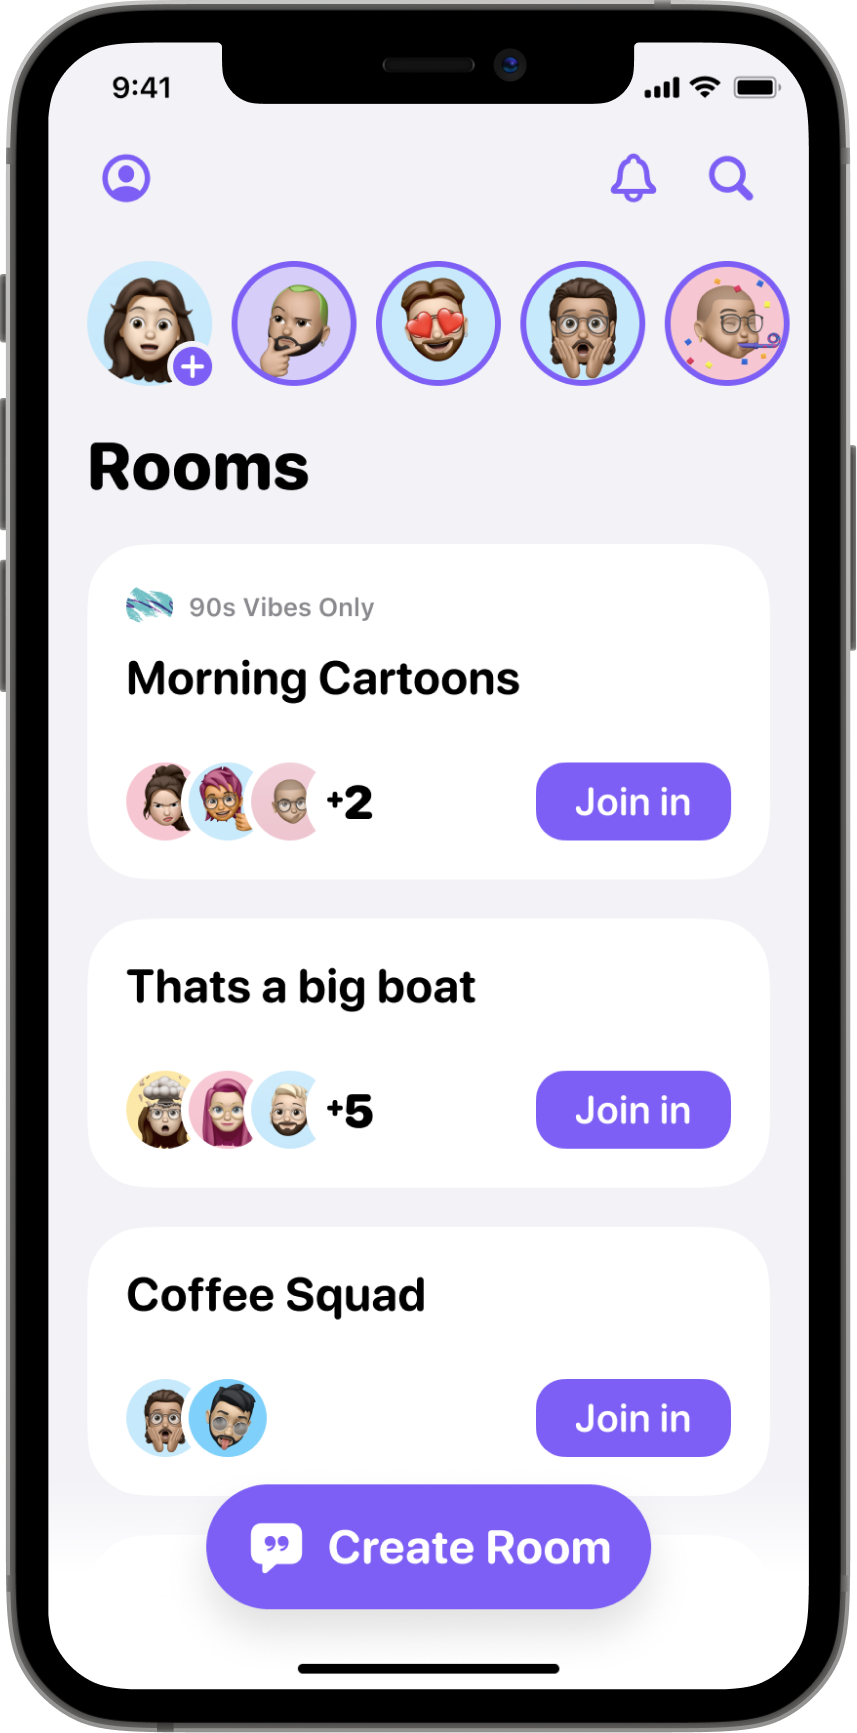
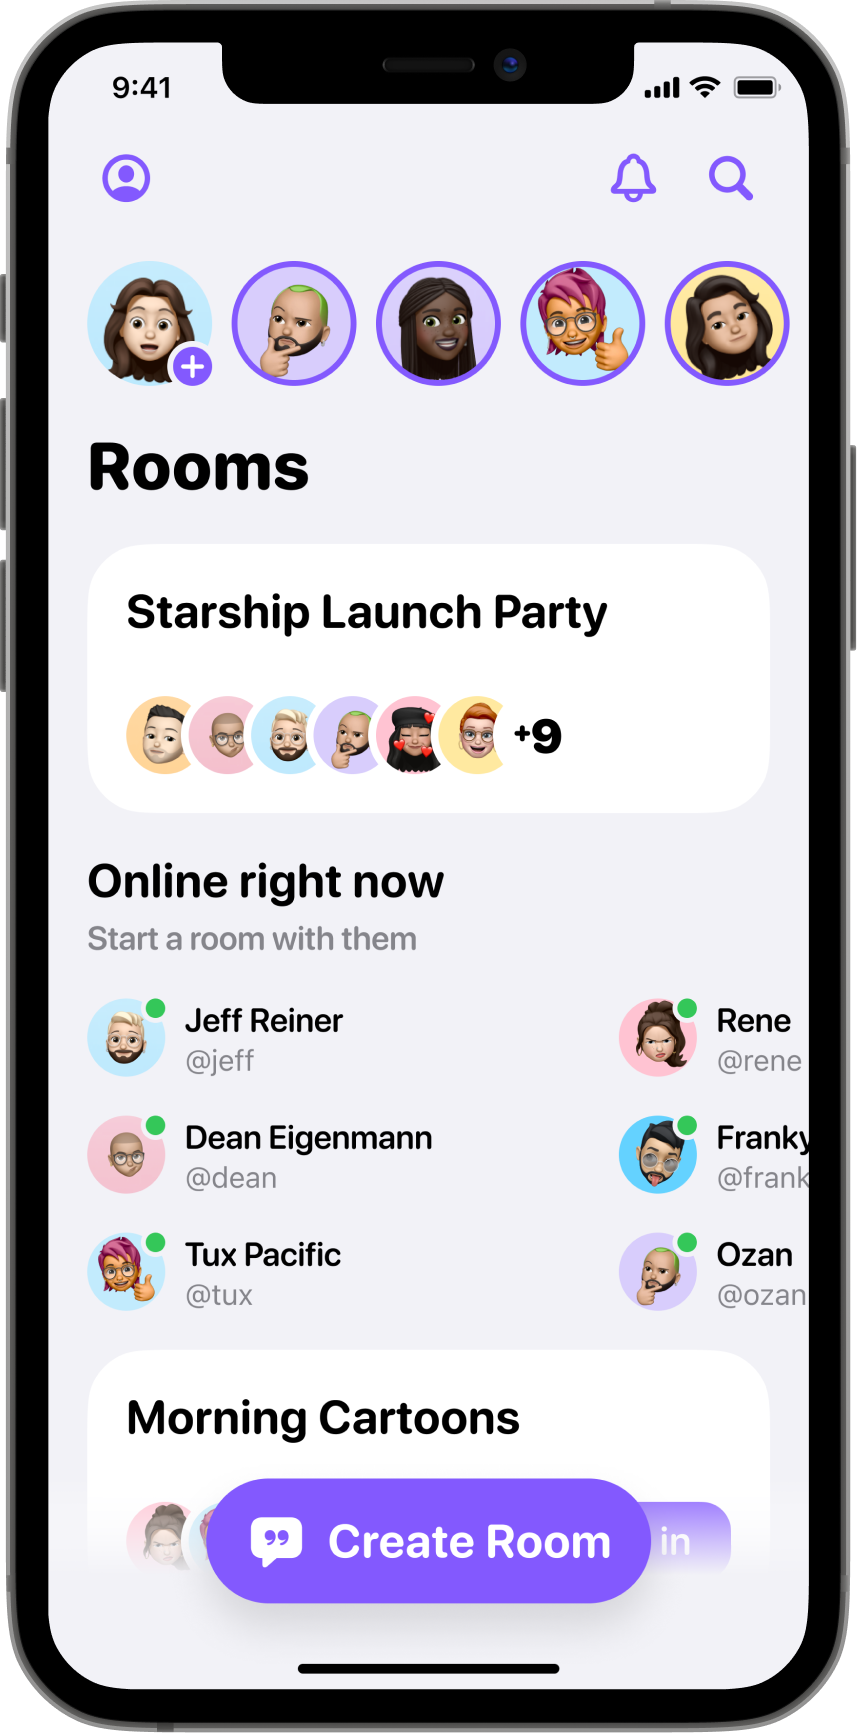
Adding new blog post for home feed (#10)
* Adding new blog post

* Update home screenshot

diff --git a/posts/home-sweet-home.md b/posts/home-sweet-home.md
@@ -1,0 +1,16 @@
+---
+title: Home Sweet Home
+date: "2021-04-13"
+summary: Kick up your feet and make yourself at home.
+thumb: /blog/feed.png
+---
+
+Kick up your feet and make yourself at home.
+
+We are thrilled to release a brand new design of the home feed! Our community can now view online users and frictionlessly spark up a conversation by tapping on their profile image right from the home feed.
+
+![Feed](/blog/feed.png)
+
+Every day we are inspired by our community, and we hope the new design enables a better experience and makes it effortless to chat with others.
+
+As always, we would love to hear what you think!
